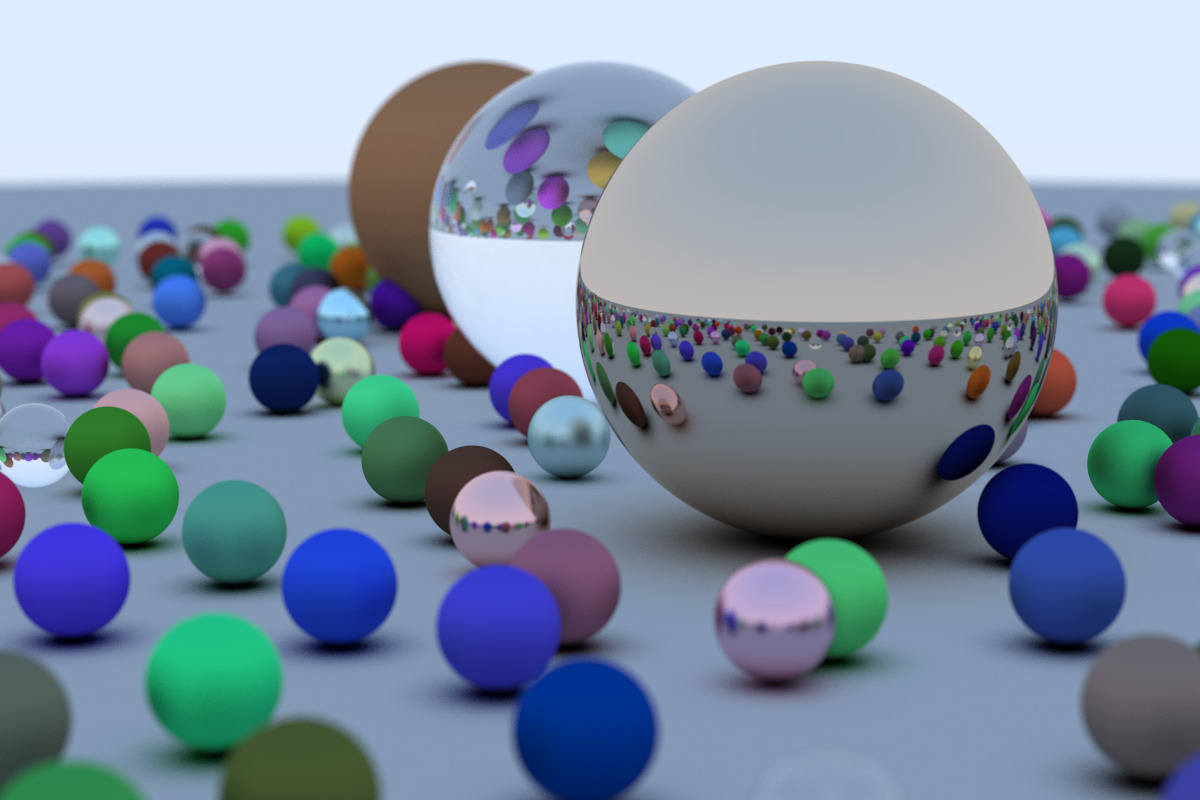
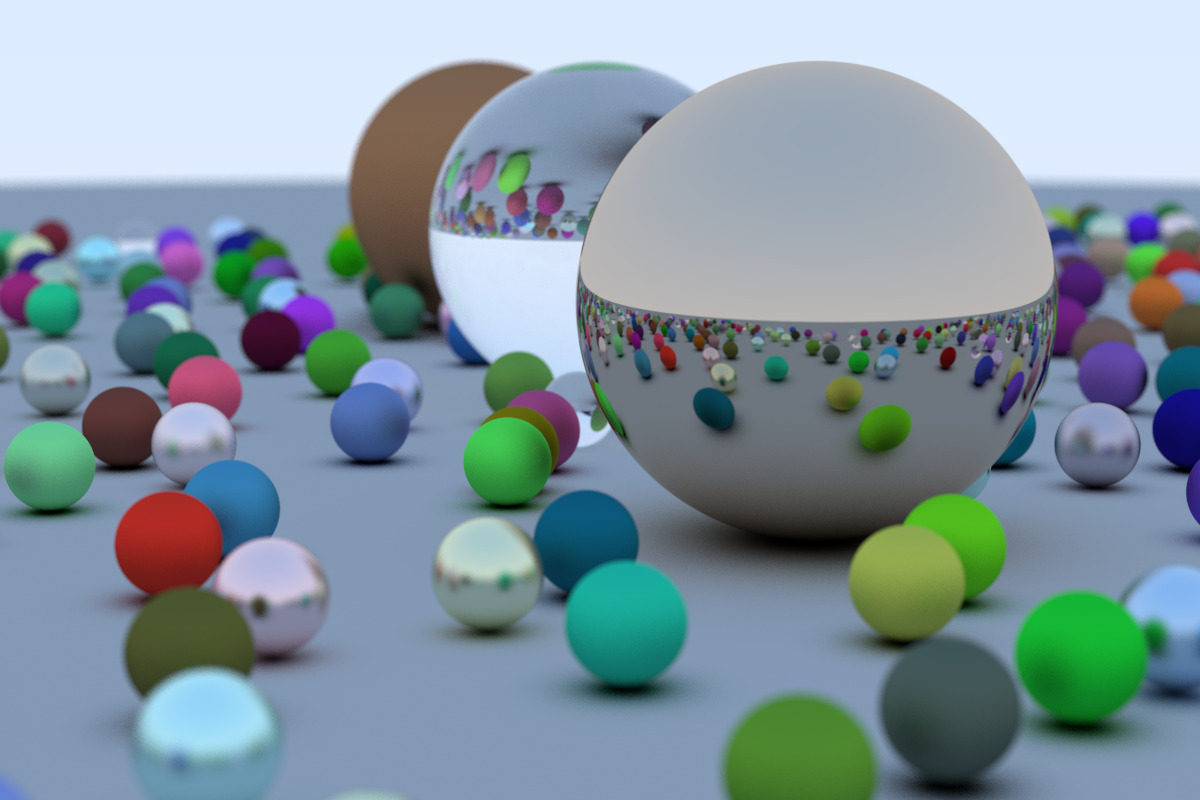
Optionally deterministic behavior.

diff --git a/src/main.rs b/src/main.rs
@@ -13,6 +13,7 @@ use hittable::Hittable;
 use materials::{Dielectric, Lambertian, Metal};
 use rand::Rng;
 use raytrace::RayTracer;
+use rngator::Rngator;
 use shapes::Sphere;
 use std::sync::atomic::{self, AtomicUsize};
 use std::time::Instant;
@@ -20,6 +21,7 @@ use vec::{Color, Point3, Vec3};
 
 struct Parameters {
     pub random_world: bool,
+    pub seed: Option<u64>,
 
     pub aspect_ratio: f64,
     pub render: raytrace::RenderingParams,
@@ -65,6 +67,7 @@ fn args() -> Parameters {
         .arg(arg("aperture", "0.0"))
         .arg(Arg::with_name("focus_dist").long("focus_dist").takes_value(true))
         .arg(Arg::with_name("random_world").long("random_world"))
+        .arg(Arg::with_name("seed").long("seed").takes_value(true))
         .get_matches();
     let aspect_ratio = parse_aspect_ratio(matches.value_of("aspect_ratio").unwrap());
     let image_width = matches.value_of("image_width").unwrap().parse::<usize>().unwrap();
@@ -77,6 +80,7 @@ fn args() -> Parameters {
 
     Parameters {
         random_world: matches.is_present("random_world"),
+        seed: matches.value_of("seed").map(|v| v.parse::<u64>().unwrap()),
         aspect_ratio,
         render: raytrace::RenderingParams {
             image_width,
@@ -120,9 +124,7 @@ fn rnd01(rng: &mut dyn rand::RngCore) -> f64 {
     rng.gen_range(0.0..1.0)
 }
 
-fn random_world<'a>() -> Box<dyn Hittable + 'a> {
-    let mut thread_rng = rand::thread_rng();
-    let rng = &mut thread_rng;
+fn random_world<'a>(rng: &mut dyn rand::RngCore) -> Box<dyn Hittable + 'a> {
     let mut world = bhv::SceneBuilder::new();
 
     let ground_material = Lambertian::new(Color::new(0.5, 0.5, 0.5));
@@ -164,13 +166,16 @@ fn random_world<'a>() -> Box<dyn Hittable + 'a> {
     Box::new(bhv::BHV::new(&mut world))
 }
 
-fn main() {
-    // Image
-    let parameters = args();
+fn do_it<T>(parameters: Parameters, rngator: T)
+where
+    T: Rngator,
+{
+    let mut rng_box = rngator.rng();
+    let rng = rng_box.as_mut();
 
     // World
     let world: Box<dyn Hittable> =
-        if parameters.random_world { random_world() } else { simple_world() };
+        if parameters.random_world { random_world(rng) } else { simple_world() };
 
     // Camera
     let cam = Camera::new(
@@ -189,7 +194,7 @@ fn main() {
     println!("P3\n{} {}\n255", parameters.render.image_width, parameters.render.image_height);
     let start_time = Instant::now();
     let remaining_count = AtomicUsize::new(parameters.render.image_height);
-    let rt = RayTracer::new(&cam, world.as_ref(), parameters.render);
+    let rt = RayTracer::new_with_rng(&cam, world.as_ref(), parameters.render, rngator);
     let last_logged = AtomicUsize::new(0);
     let image = rt.render(|j| {
         let rem_lines = remaining_count.fetch_sub(1, atomic::Ordering::Relaxed) - 1;
@@ -216,5 +221,14 @@ fn main() {
         for (r, g, b) in image[j].iter() {
             println!("{} {} {}", r, g, b);
         }
+    }
+}
+
+fn main() {
+    // Image
+    let parameters = args();
+    match parameters.seed {
+        None => do_it(parameters, rngator::ThreadRngator {}),
+        Some(seed) => do_it(parameters, rngator::SeedableRngator::new(seed)),
     }
 }

diff --git a/src/rngator.rs b/src/rngator.rs
@@ -1,3 +1,6 @@
+use rand::SeedableRng;
+use std::sync::atomic::AtomicU64;
+
 pub trait Rngator: Sync {
     fn rng(&self) -> Box<dyn rand::RngCore>;
 }
@@ -7,5 +10,22 @@ pub struct ThreadRngator {}
 impl Rngator for ThreadRngator {
     fn rng(&self) -> Box<dyn rand::RngCore> {
         Box::new(rand::thread_rng())
+    }
+}
+
+pub struct SeedableRngator {
+    seed: AtomicU64,
+}
+
+impl SeedableRngator {
+    pub fn new(seed: u64) -> SeedableRngator {
+        SeedableRngator { seed: AtomicU64::new(seed) }
+    }
+}
+
+impl Rngator for SeedableRngator {
+    fn rng(&self) -> Box<dyn rand::RngCore> {
+        let seed = self.seed.fetch_add(1, std::sync::atomic::Ordering::Release);
+        Box::new(rand_pcg::Pcg64::seed_from_u64(seed))
     }
 }

diff --git a/README.md b/README.md
@@ -5,7 +5,7 @@ Implementation of a ray tracer in Rust, following [_Ray Tracing in One Weekend_]
 Sample rendering:
 
 ```bash
-cargo run --release -- --random_world \
+cargo run --release -- --random_world --seed=42 \
         --aspect_ratio="3:2" --image_width=1200 --samples_per_pixel=500 \
 	--lookfrom="13,2,3" --lookat="0,0,0" --field_of_view=20 \
         > test.ppm
@@ -16,7 +16,7 @@ cargo run --release -- --random_world \
 Same with focus blur:
 
 ```bash
-cargo run --release -- --random_world \
+cargo run --release -- --random_world --seed=42 \
         --aspect_ratio="3:2" --image_width=1200 --samples_per_pixel=500 \
         --aperture=0.1 --focus_dist=10.0 \
 	--lookfrom="13,2,3" --lookat="0,0,0" --field_of_view=20 \
